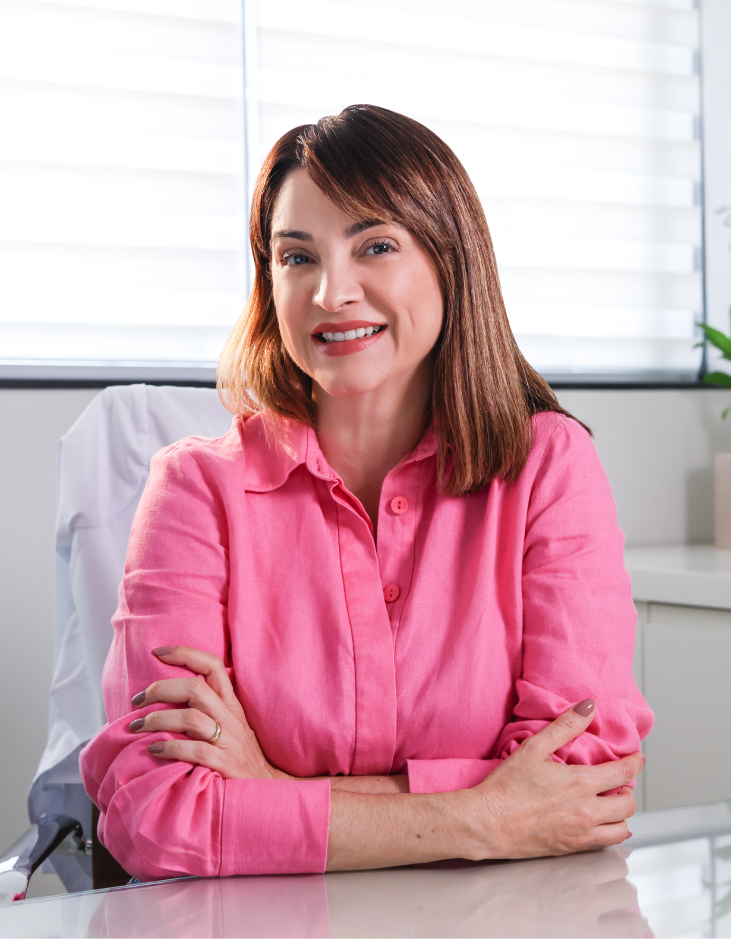
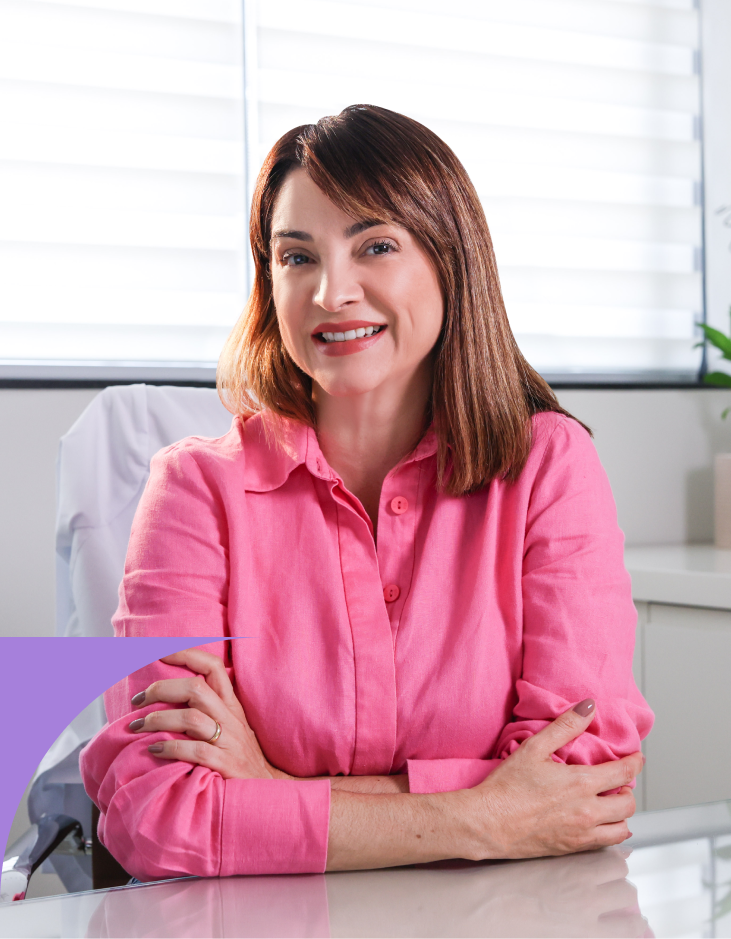
finished alterations

Changed region(s): [[0.0, 0.6794, 0.301, 0.9265]]

diff --git a/index.html b/index.html
@@ -58,7 +58,7 @@
   </head>
   <body>
     <header class="relative bg-cover lg:bg-center h-screen" id="header">
-      <nav class="container mx-auto flex pt-24 justify-between h-full px-6">
+      <nav class="container mx-auto flex pt-12 justify-between h-full px-6">
         <div class="text-white text-2xl font-bold lg:block hidden">
           <a href="#">
             <img src="assets/logo.svg" alt="" />
@@ -105,25 +105,32 @@
         </div>
         <!-- Texto -->
         <div class="space-y-6 text-white lg:pl-12">
-          <h1 class="text-4xl font-bold text-center lg:text-left">
+          <div class="">
+            <img
+              src="assets/estrela-header.png"
+              class="hidden lg:block "
+              alt=""
+            />
+          </div>
+          <h1 class="lg:text-6xl text-5xl font-bold text-center lg:text-left">
             CUIDAR PARA <br />
-            <span class="italic aventa text-[#383690] lg:text-white"
+            <span class="italic aventa text-[#383690] font-bold"
               >TRANSFORMAR VIDAS </span
             >DESDE <br />
             <span class="text-gray-100">O INÍCIO.</span>
           </h1>
-          <p class="text-center lg:text-left">
+          <p class="text-center lg:text-left lg:text-xl">
             Lorem ipsum dolor sit amet, consectetur adipiscing elit. Fusce vitae
             felis sed odio aliquam ultrices. Cras quis mollis elit, eget
             facilisis diam. Aliquam ullamcorper porta accumsan.
           </p>
-          <p class="text-center lg:text-left">
+          <p class="text-center lg:text-left lg:text-xl">
             Lorem ipsum dolor sit amet, consectetur adipiscing elit. Fusce vitae
             felis sed odio aliquam ultrices. Cras quis mollis elit, eget
             facilisis diam. Aliquam ullamcorper porta accumsan.
           </p>
           <button
-            class="flex lg:block mx-auto lg:mx-0 rounded-full px-6 py-3 bg-purple-700 text-white font-semibold lg:rounded hover:bg-purple-800"
+            class="flex lg:block mx-auto lg:mx-0 rounded-full px-6 py-3 bg-purple-700 text-white font-semibold lg:rounded-full hover:bg-purple-800"
           >
             SAIBA MAIS AQUI
           </button>
@@ -145,7 +152,7 @@
     </section>
 
     <!-- Seção de Serviços -->
-    <section class="bg-purple-800 py-12">
+    <section class="bg-[#383690] py-12">
       <div class="container mx-auto px-4">
         <div
           class="grid grid-cols-1 sm:grid-cols-2 md:grid-cols-3 gap-8 text-center text-white"
@@ -201,7 +208,7 @@
       </div>
     </section>
 
-    <section class="bg-[#FFD8E2] py-12">
+    <section class="bg-[#EFE1D4] py-12 relative">
       <div
         class="container mx-auto px-4 grid grid-cols-1 lg:grid-cols-2 items-center gap-8"
       >
@@ -209,14 +216,8 @@
         <div class="lg:hidden">
           <img src="assets/estrela-roxa.png" class="mx-auto lg:hidden" alt="" />
         </div>
-        <div class="text-[#7C3D9E] space-y-6">
-          <h2
-            class="text-3xl aventa text-[#A680DB] font-bold lg:text-[#7C3D9E] lg:text-4xl text-center lg:text-left leading-snug"
-          >
-            ALERGISTA, <br />
-            IMUNOLOGISTA & <br />
-            PEDIATRA
-          </h2>
+        <div class="text-[#7C3D9E] space-y-6 max-w-lg mx-auto">
+          <img src="assets/texto-vector.png" alt="">
           <div class="relative flex justify-center lg:hidden">
             <img
               src="assets/dra2.png"
@@ -224,18 +225,23 @@
               class="rounded-lg max-w-full"
             />
           </div>
-          <p>
+          <p class="lg:text-xl">
             Lorem ipsum dolor sit amet, consectetur adipiscing elit. Fusce vitae
             felis sed odio aliquam ultrices. Cras quis mollis elit, eget
             facilisis diam. Aliquam ullamcorper porta accumsan.
           </p>
-          <p>
+          <p class="lg:text-xl">
+            Lorem ipsum dolor sit amet, consectetur adipiscing elit. Fusce vitae
+            felis sed odio aliquam ultrices. Cras quis mollis elit, eget
+            facilisis diam. Aliquam ullamcorper porta accumsan.
+          </p>
+          <p class="lg:text-xl">
             Lorem ipsum dolor sit amet, consectetur adipiscing elit. Fusce vitae
             felis sed odio aliquam ultrices. Cras quis mollis elit, eget
             facilisis diam. Aliquam ullamcorper porta accumsan.
           </p>
           <button
-            class="flex mx-auto lg:mx-0 lg:block rounded-full px-6 py-3 bg-[#A680DB] text-white font-semibold lg:rounded hover:bg-[#7C3D9E]"
+            class="flex mx-auto lg:mx-0 lg:block rounded-full px-6 py-3 bg-[#A680DB] text-white font-semibold lg:rounded-full hover:bg-[#7C3D9E]"
           >
             SAIBA MAIS AQUI
           </button>
@@ -255,21 +261,27 @@
       <div class="mt-12 px-4">
         <div class="relative rounded-lg overflow-hidden">
           <!-- Imagem -->
-          <img
-            src="assets/thumb.png"
-            alt="Imagem da Doutora"
-            class="mx-auto h-auto hidden lg:block"
-          />
-          <img
-            src="assets/dra-mobile-thumb.png"
-            alt="Imagem da Doutora"
-            class="mx-auto h-auto lg:hidden"
-          />
+           <div class="py-32 relative z-30">
+             <img
+               src="assets/thumb.png"
+               alt="Imagem da Doutora"
+               class="mx-auto h-auto hidden lg:block"
+             />
+
+           </div>
+           <div class="relative z-30">
+
+             <img
+               src="assets/dra-mobile-thumb.png"
+               alt="Imagem da Doutora"
+               class="mx-auto h-auto lg:hidden"
+             />
+           </div>
 
           <!-- Player (ícone central) -->
           <div class="absolute inset-0 flex items-center justify-center">
             <button
-              class="bg-white text-[#A680DB] p-4 rounded-full shadow-lg hover:bg-[#A680DB] hover:text-white transition"
+              class="bg-white text-[#A680DB] p-4 rounded-full shadow-lg hover:bg-[#A680DB] hover:text-white transition z-40"
             >
               <!-- Ícone de play -->
               <svg
@@ -284,9 +296,16 @@
           </div>
         </div>
       </div>
+      <div class="absolute bottom-0 left-1/2 transform -translate-x-1/2 translate-y-1/2 w-full max-w-5xl hidde lg:block">
+        <img
+          src="assets/dra-com-fundo.png"
+          alt="Imagem decorativa"
+          class="w-full object-contain pointer-events-none"
+        />
+      </div>
     </section>
 
-    <section class="bg-[#A680DB] py-12">
+    <section class="bg-[#A680DB] py-12 relative z-50">
       <!-- Segunda seção de texto -->
       <div
         class="relative w-full md:py-32 flex items-center justify-center mt-10 lg:mt-0"
@@ -468,34 +487,40 @@
       </div>
     </section>
 
-    <section class="relative bg-[#EFE1D4]">
+    <section class="relative bg-[#EFE1D4] pb-64 lg:pb-0">
       <div
         class="lg:flex container mx-auto items-center justify-between px-10 py-20 h-screen relative"
       >
         <!-- Conteúdo de texto -->
         <div class="max-w-lg z-10">
-          <h1 class="text-4xl font-bold text-[#9251d2] leading-snug">
-            ESTAMOS <span class="italic font-normal">PRONTOS</span><br />
+          <h1 class="text-5xl font-bold text-[#9251d2] leading-snug ">
+            ESTAMOS <span class="italic font-bold aventa text-[#383690]">PRONTOS</span><br />
             PARA ESPALHAR O
-            <span class="italic font-normal">AMOR E O CUIDADO!</span>
+            <span class="italic font-normal aventa text-[#383690]">AMOR E O CUIDADO!</span>
           </h1>
-          <p class="mt-6 text-lg text-[#6a347a]">
+          <p class="mt-6 text-xl text-[#6a347a]">
             Lorem ipsum dolor sit amet, consectetur adipiscing elit. Fusce vitae
             felis sed odio aliquam ultrices.
             <span class="font-bold">Cras quis mollis elit</span>, eget facilisis
             diam. Aliquam ullamcorper porta accumsan.
           </p>
-          <button
-            class="mt-6 px-6 py-3 bg-[#9251d2] text-white rounded-full text-lg"
-          >
-            Saiba Mais Aqui
-          </button>
-          <!-- Adicionando imagem da assinatura -->
-          <img
-            src="assets/assinatura.png"
-            alt="Assinatura da Dra. Elizângela Menezes"
-            class="mt-10 w-64"
-          />
+          <div class="grid grid-cols-1 md:grid-cols-2 gap-4 items-center">
+            <div class="flex justify-between">
+              <button
+                class="mt-6 px-6 py-3 bg-[#9251d2] text-white rounded-full text-lg"
+              >
+                Saiba Mais Aqui
+              </button>
+            </div>
+            <div class="flex justify-center">
+              <img
+                src="assets/assinatura.png"
+                alt="Assinatura da Dra. Elizângela Menezes"
+                class="mt-10 w-48 md:w-64"
+              />
+            </div>
+          </div>
+          
         </div>
 
         <!-- Gráfico ou vetor à direita -->
@@ -503,13 +528,20 @@
           <img
             src="assets/flor.png"
             alt="Figura Decorativa"
-            class="absolute right-0 top-1/2 transform -translate-y-1/2 lg:w-1/2"
+            class="absolute right-[-16%] top-1/2 transform -translate-y-1/2 lg:w-1/2 pointer-events-none"
           />
-        </div>
+        </div>        
+      </div>
+      <div class="absolute bottom-0 left-1/2 transform -translate-x-1/2 translate-y-1/2 w-full max-w-5xl lg:hidden">
+        <img
+          src="assets/dra-com-fundo.png"
+          alt="Imagem decorativa"
+          class="w-full object-contain pointer-events-none"
+        />
       </div>
     </section>
 
-    <footer class="bg-purple-500 text-white py-10">
+    <footer class="bg-purple-500 text-white py-10 relative z-30">
       <div class="container mx-auto text-center">
         <!-- Nome com ícone -->
         <div class="lg:flex items-center justify-center gap-4">

diff --git a/tailwind.config.js b/tailwind.config.js
@@ -4,7 +4,11 @@ const plugin = require("tailwindcss/plugin");
 module.exports = {
   content: ["./**/*.{html,js}"],
   theme: {
-    extend: {},
+    extend: {
+      backgroundImage: {
+        fundoDra: "url('assets/dra-com-fundo.png')",
+      },
+    },
   },
   plugins: [
     plugin(function ({ addUtilities }) {

diff --git a/style.css b/style.css
@@ -2,6 +2,18 @@
   font-family: "Aventa";
   src: url("./Font/aventa/Aventa-LightItallicPERSONALUSEONLY.otf");
 }
+* {
+  margin: 0;
+  padding: 0;
+  box-sizing: border-box;
+}
+
+html,
+body {
+  margin: 0;
+  padding: 0;
+  overflow-x: hidden;
+}
 
 @font-face {
   font-family: "woman";
